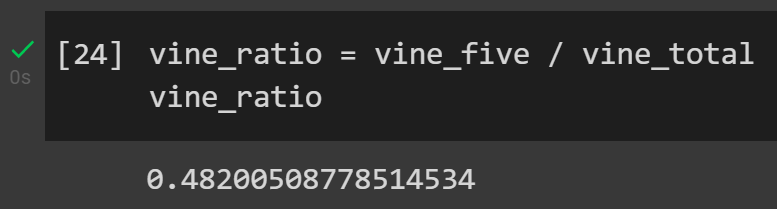
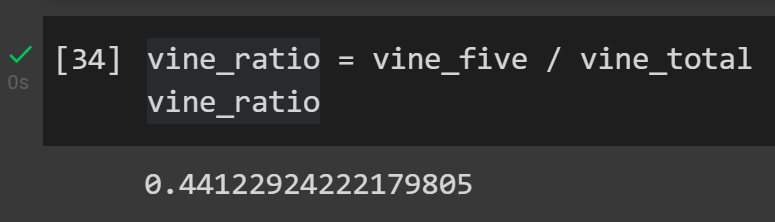
Challenge Updated

diff --git a/ReadMe.md b/ReadMe.md
@@ -6,22 +6,35 @@
 The purpose of this analysis was to determine if paid vine reviews show a bias compared to non-vine reviews.  This was done using PySpark along with an Amazon S3 dataset.  I used the dataset for Lawn & Garden reviews.  Below are the highlights of the analysis, along with a conclusion based on results.
 
 ## Results
-- Number of total Vine Reviews: 
-![This is an image](https://myoctocat.com/assets/images/base-octocat.svg)
+### Total Vine Reviews
+- By using the ".agg" and "sum" functions we get the total number of Vine Reviews:  **23979**
+![Vine Total](https://github.com/cflavallee/Amazon_Vine_Analysis/blob/main/Images/vinetotal.PNG)
 
-- 
-![This is an image](https://myoctocat.com/assets/images/base-octocat.svg)
+### Five-Star Vine Reviews
+- Number of Five-Star Vine Reviews:  **11558**
+![Vine Five Star](https://github.com/cflavallee/Amazon_Vine_Analysis/blob/main/Images/vinefivestar.PNG)
 
-- 
-![This is an image](https://myoctocat.com/assets/images/base-octocat.svg)
+### Ratio of Five-Star Vine Reviews
+- Ratio of Five-Star to Total Vine Reviews:  **0.48**
+![Vine Ratio](https://github.com/cflavallee/Amazon_Vine_Analysis/blob/main/Images/vineratio.PNG)
 
-- 
-![This is an image](https://myoctocat.com/assets/images/base-octocat.svg)
+### Total Non-Vine Reviews
+- By using the ".agg" and "sum" functions we get the total number of Non-Vine Reviews:  **2525046**
+![Non-Vine Total](https://github.com/cflavallee/Amazon_Vine_Analysis/blob/main/Images/novinetotal.PNG)
 
-- 
-![This is an image](https://myoctocat.com/assets/images/base-octocat.svg)
+### Five-Star Non-Vine Reviews
+- Number of Five-Star Non-Vine Reviews:  **1338327**
+![Non-Vine Five Star](https://github.com/cflavallee/Amazon_Vine_Analysis/blob/main/Images/novinefivestar.PNG)
+
+### Ratio of Five-Star Non-Vine Reviews
+- Ratio of Five-Star to Total Non-Vine Reviews:  **0.53**
+![Non-Vine Ratio](https://github.com/cflavallee/Amazon_Vine_Analysis/blob/main/Images/vineratio.PNG)
 
 ## Summary
 
+Based on the analysis above, there is no apparent positivity bias for the paid Vine reviews.  Vine reviews had 48% Five-Star reviews whereas Non-Vine reviews had 53% Five-Star reviews.  We can possibly conclude that the nature of the Vine reviews did not influence a positive rating.  
 
+Further analysis could include Four-Star reviews as well as a breakdown of each star level to see how reviews were distributed overall.  It is possible that, while the ratio of Five-Star reviews is lower for the Vine reviews, there could be a higher ration of Four-Star reviews, which may indicate a bias.  Additionally, the number of Non-Vine reviews far exceeds the number of Vine reviews in this dataset.  With a more evenly distributed sample, it is possible that the results could change.  
+
+To go even further with the analysis, we could compare different datasets by the type of item they represent.  Lawn & Garden items may not show a bias, but other categories may have different results. 
 
